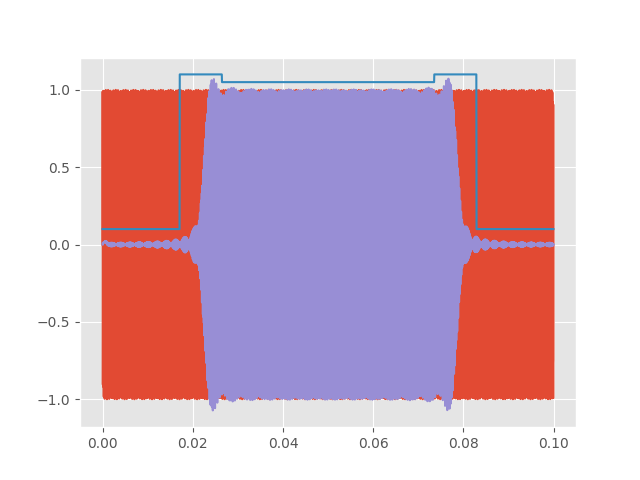
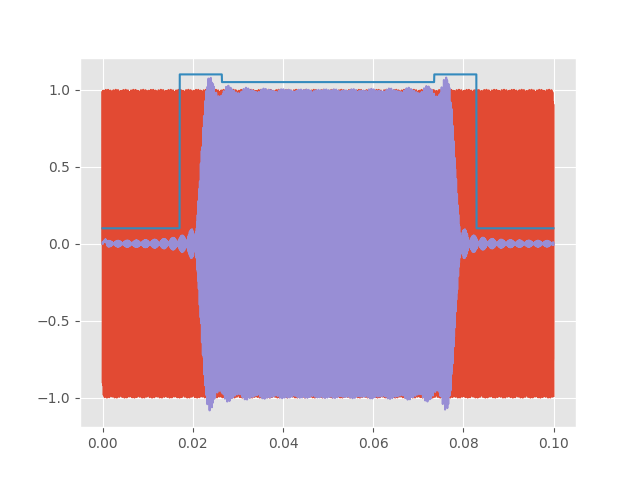
Able to run without a lot of underrun's now, code still needs a lot more polishing. I precomputed all of the coefficients up front and used a lookup table with a direct lookup.

diff --git a/autowah/variable_cutoff_filter.py b/autowah/variable_cutoff_filter.py
@@ -1,7 +1,15 @@
 from scipy import signal
 import numpy as np
+import numba
+from collections import deque
 
-@np.vectorize
+@numba.jit()
+def find_nearest_idx(array, value):
+    array = np.asarray(array)
+    idx = (np.abs(array - value)).argmin()
+    return idx
+
+@numba.jit()
 def _coefficient_sin(n, omega_c):
     if n != 0:
         return np.sin(omega_c * n)
@@ -18,7 +26,7 @@ class VariableCutoffFilter:
           ISSN 0165-1684, https://doi.org/10.1016/0165-1684(88)90090-4.
     """
 
-    def __init__(self, filter_len=51, fs: float = None):
+    def __init__(self, filter_len=51, fs: float = None, chunk =None):
         """
         :param fs: Sample rate/frequency in Hz, if this is None then we assume 0-PI normalized inputs.
         :param filter_len:
@@ -39,14 +47,26 @@ class VariableCutoffFilter:
             # TODO: implement the even case
             raise NotImplementedError("Even case is not implemented")
 
+        self.chunk = chunk
+        if self.chunk:
+            self.ys = np.empty(chunk, dtype=np.float32)
+
+        self._coefficient_calc = np.vectorize(_coefficient_sin)
+
         self.reset()
 
     def reset(self):
         self._compute_static_coefficients()
         self._d = 0
         self._is_init = False
-        self._z = None
-
+        self._z = deque(maxlen=self._filter_len)
+        self._z.extend(np.zeros(self._filter_len, dtype=np.float32))
+        self._coefficients_lut_size = 1024*2
+        self._coefficients_lut_max = np.pi
+        self._coefficients_lut_omegas = np.linspace(0, self._coefficients_lut_max, endpoint=False, num=self._coefficients_lut_size)
+        
+        self._coefficients_lut = [self._compute_coefficients(w) for w in self._coefficients_lut_omegas]    
+    
     def run(self, u, fc):
         """
         fc is converted to scale based on what fs is set to
@@ -65,12 +85,17 @@ class VariableCutoffFilter:
         else:
             omega_c = fc
 
-        bs = [self._compute_coefficients(w) for w in omega_c]
-        
-        return np.array(
-            [self._step(x,b) for x, b in zip(u, bs)],
-            dtype=np.float32,
-        )
+
+        if not self.chunk:
+            self.ys = np.empty(len(u), dtype=np.float32)
+
+        coeffs_idx = np.round(self._coefficients_lut_size*omega_c/self._coefficients_lut_max)
+
+        for i in range(len(u)):
+            # coeffs_idx = find_nearest_idx(self._coefficients_lut_omegas, omega_c[i])
+            coeffs = self._coefficients_lut[int(coeffs_idx[i])]
+            self.ys[i] = self._step(u[i],coeffs)
+        return self.ys
 
     def _step(self, u, b):
         """
@@ -82,20 +107,16 @@ class VariableCutoffFilter:
         :param b: coefficients for the FIR filter
         :return   a filtered scalar value
         """
-        if not self._is_init:
-            self._z = signal.lfilter_zi(b, 1) * u
-            self._is_init = True
-
-        y, self._z = signal.lfilter(b, [1.0], [u], zi=self._z)
-        return y[0]
+        self._z.append(u)
+        return sum([b[i] * self._z[i] for i in range(self._filter_len)])
 
 
     def _compute_coefficients(self, omega_c):
-        return self.coefficients * _coefficient_sin(self.ns, omega_c)
+        return self.coefficients * self._coefficient_calc(self.ns, omega_c)
 
     def _compute_static_coefficients(self):
         if self._is_odd:
-            self.ns = np.array(range(-1 * self._N, self._N + 1))
+            self.ns = np.array(range(-1 * self._N, self._N + 1), dtype=np.float32)
             # This is the "Ideal LPF"
             h_M0 = lambda n: (self._w_co / np.pi) * np.sinc(self._w_co * n / np.pi)
 
@@ -104,7 +125,7 @@ class VariableCutoffFilter:
                 [
                     h_M0(n) * 1 / np.sin(self._w_co * n) if n != 0 else 1 / np.pi
                     for n in self.ns
-                ]
+                ], dtype=np.float32
             )
         else:
             raise NotImplementedError("Even case is not implemented")

diff --git a/autowah/console.py b/autowah/console.py
@@ -2,7 +2,8 @@ import pyaudio
 import numpy as np
 import time
 from numpy_ringbuffer import RingBuffer
-
+import wave
+from multiprocessing import Process
 
 from .envelope_follower import EnvelopeFollower
 from .variable_cutoff_filter import VariableCutoffFilter
@@ -14,19 +15,22 @@ import matplotlib.pyplot as plt
 # https://stackoverflow.com/questions/40483518/how-to-real-time-filter-with-scipy-and-lfilter
 # Variable Fc filters: A simple approach to design of linear phase FIR filters with variable characteristics (P. Jarske, Y. Neuvo and S. K. Mitra,)
 # https://arxiv.org/pdf/1804.02891.pd
-p = pyaudio.PyAudio()
 
+def plotter():
+    while True:
+        time.sleep(1)
 
 def run():
+    p = pyaudio.PyAudio()
 
     CHANNELS = 1
     RATE = 44100
-    CHUNK = int(1024 * 20)
+    CHUNK = int(1024 * 8)
     HISTORY_LENGTH = CHUNK * 20
     ENVELOPE_FOLLOWER_FC = 30
     envelope_follower = EnvelopeFollower(ENVELOPE_FOLLOWER_FC, RATE)
-    lpf = VariableCutoffFilter(filter_len=3, fs=RATE)
-    starting_freq = 100
+    lpf = VariableCutoffFilter(filter_len=51, fs=RATE, chunk=CHUNK)
+    starting_freq = 50
     sensitivity = 10000
     scope = {
         "in": RingBuffer(capacity=HISTORY_LENGTH),
@@ -42,12 +46,11 @@ def run():
         audio_data = np.fromstring(in_data, dtype=np.float32)
         # Process data here
 
-        envelope = envelope_follower.run(audio_data)
+        envelope = envelope_follower.run(audio_data)*2
         freqs = starting_freq + envelope * sensitivity
 
         # print(freqs)
-        out = .25* lpf.run(audio_data, freqs)
-
+        out = .5* lpf.run(audio_data, freqs)
         out = out.astype(np.float32)
 
         scope["in"].extend(audio_data)
@@ -56,6 +59,8 @@ def run():
 
         return out, pyaudio.paContinue
 
+
+    # wf = wave.open('test.wav', 'rb')
     stream = p.open(
         format=pyaudio.paFloat32,
         channels=CHANNELS,
@@ -67,35 +72,37 @@ def run():
     )
 
     stream.start_stream()
+
     plt.style.use("ggplot")
 
+    fig = plt.figure()
+    ax1: plt.Axes = fig.add_subplot(311)
+    ax2 = fig.add_subplot(312, sharex=ax1)
+    ax3 = fig.add_subplot(313, sharex=ax1)
+    ax1.set_ylim((-1, 1))
+    ax2.set_ylim((-1, 1))
+    ax3.set_ylim((-1, 1))
+    plt.ion()
+
+    (line1,) = ax1.plot(np.array(scope["in"]))
+    (line2,) = ax2.plot(np.array(scope["envelope"]))
+    (line3,) = ax3.plot(np.array(scope["out"]))
+
+    plt.show()
+
     while stream.is_active():
-        fig = plt.figure()
-        ax1: plt.Axes = fig.add_subplot(311)
-        ax2 = fig.add_subplot(312, sharex=ax1)
-        ax3 = fig.add_subplot(313, sharex=ax1)
-        ax1.set_ylim((-1, 1))
-        ax2.set_ylim((-1, 1))
-        ax3.set_ylim((-1, 1))
-        plt.ion()
+        line1.set_ydata(np.array(scope["in"]))
+        line2.set_ydata(np.array(scope["envelope"]))
+        line3.set_ydata(np.array(scope["out"]))
+        fig.canvas.flush_events()
+        time.sleep(.1)
+    #     time.sleep(20)
+    #     stream.stop_stream()
+    #     print("Stream is stopped")
 
-        (line1,) = ax1.plot(np.array(scope["in"]))
-        (line2,) = ax2.plot(np.array(scope["envelope"]))
-        (line3,) = ax3.plot(np.array(scope["out"]))
-
-        plt.show()
-
-        while True:
-            line1.set_ydata(np.array(scope["in"]))
-            line2.set_ydata(np.array(scope["envelope"]))
-            line3.set_ydata(np.array(scope["out"]))
-            fig.canvas.flush_events()
-            time.sleep(1)
-
-        time.sleep(20)
-        stream.stop_stream()
-        print("Stream is stopped")
-
+    plotter_proc = Process(target=plotter)
+    plotter_proc.start()
+    plotter_proc.join()
     stream.close()
 
     p.terminate()

diff --git a/autowah/envelope_follower.py b/autowah/envelope_follower.py
@@ -39,12 +39,13 @@ class EnvelopeFollower:
         # https://www.dsprelated.com/showarticle/938.php  Asynchronous Real Square-Law Envelope Detection
 
         """
-        # Step 1: take the absolute value of the input signal
-        abs_x = np.abs(x)
-
         if not self._is_init:
             self._is_init = True
             self._z = self._z * x[0]
+
+        # Step 1: take the absolute value of the input signal
+        abs_x = np.abs(x)
+
 
         # Step 2: apply a low pass filter to find the envelope of the signal
         y, self._z = signal.lfilter(self._b, self._a, abs_x, zi=self._z)

diff --git a/tests/test_test.py b/tests/test_test.py
@@ -27,7 +27,7 @@ def test_autowah_variable_cutoff_filter_coefficients():
 
     # As defined by [1] the center value for an odd filter will always be 1/pi
     # This will be scaled appropriately
-    assert vcf.coefficients[center_idx] == 1/np.pi
+    assert vcf.coefficients[center_idx] == pytest.approx(1/np.pi)
 
 def find_nearest_idx(array, value):
     array = np.asarray(array)
